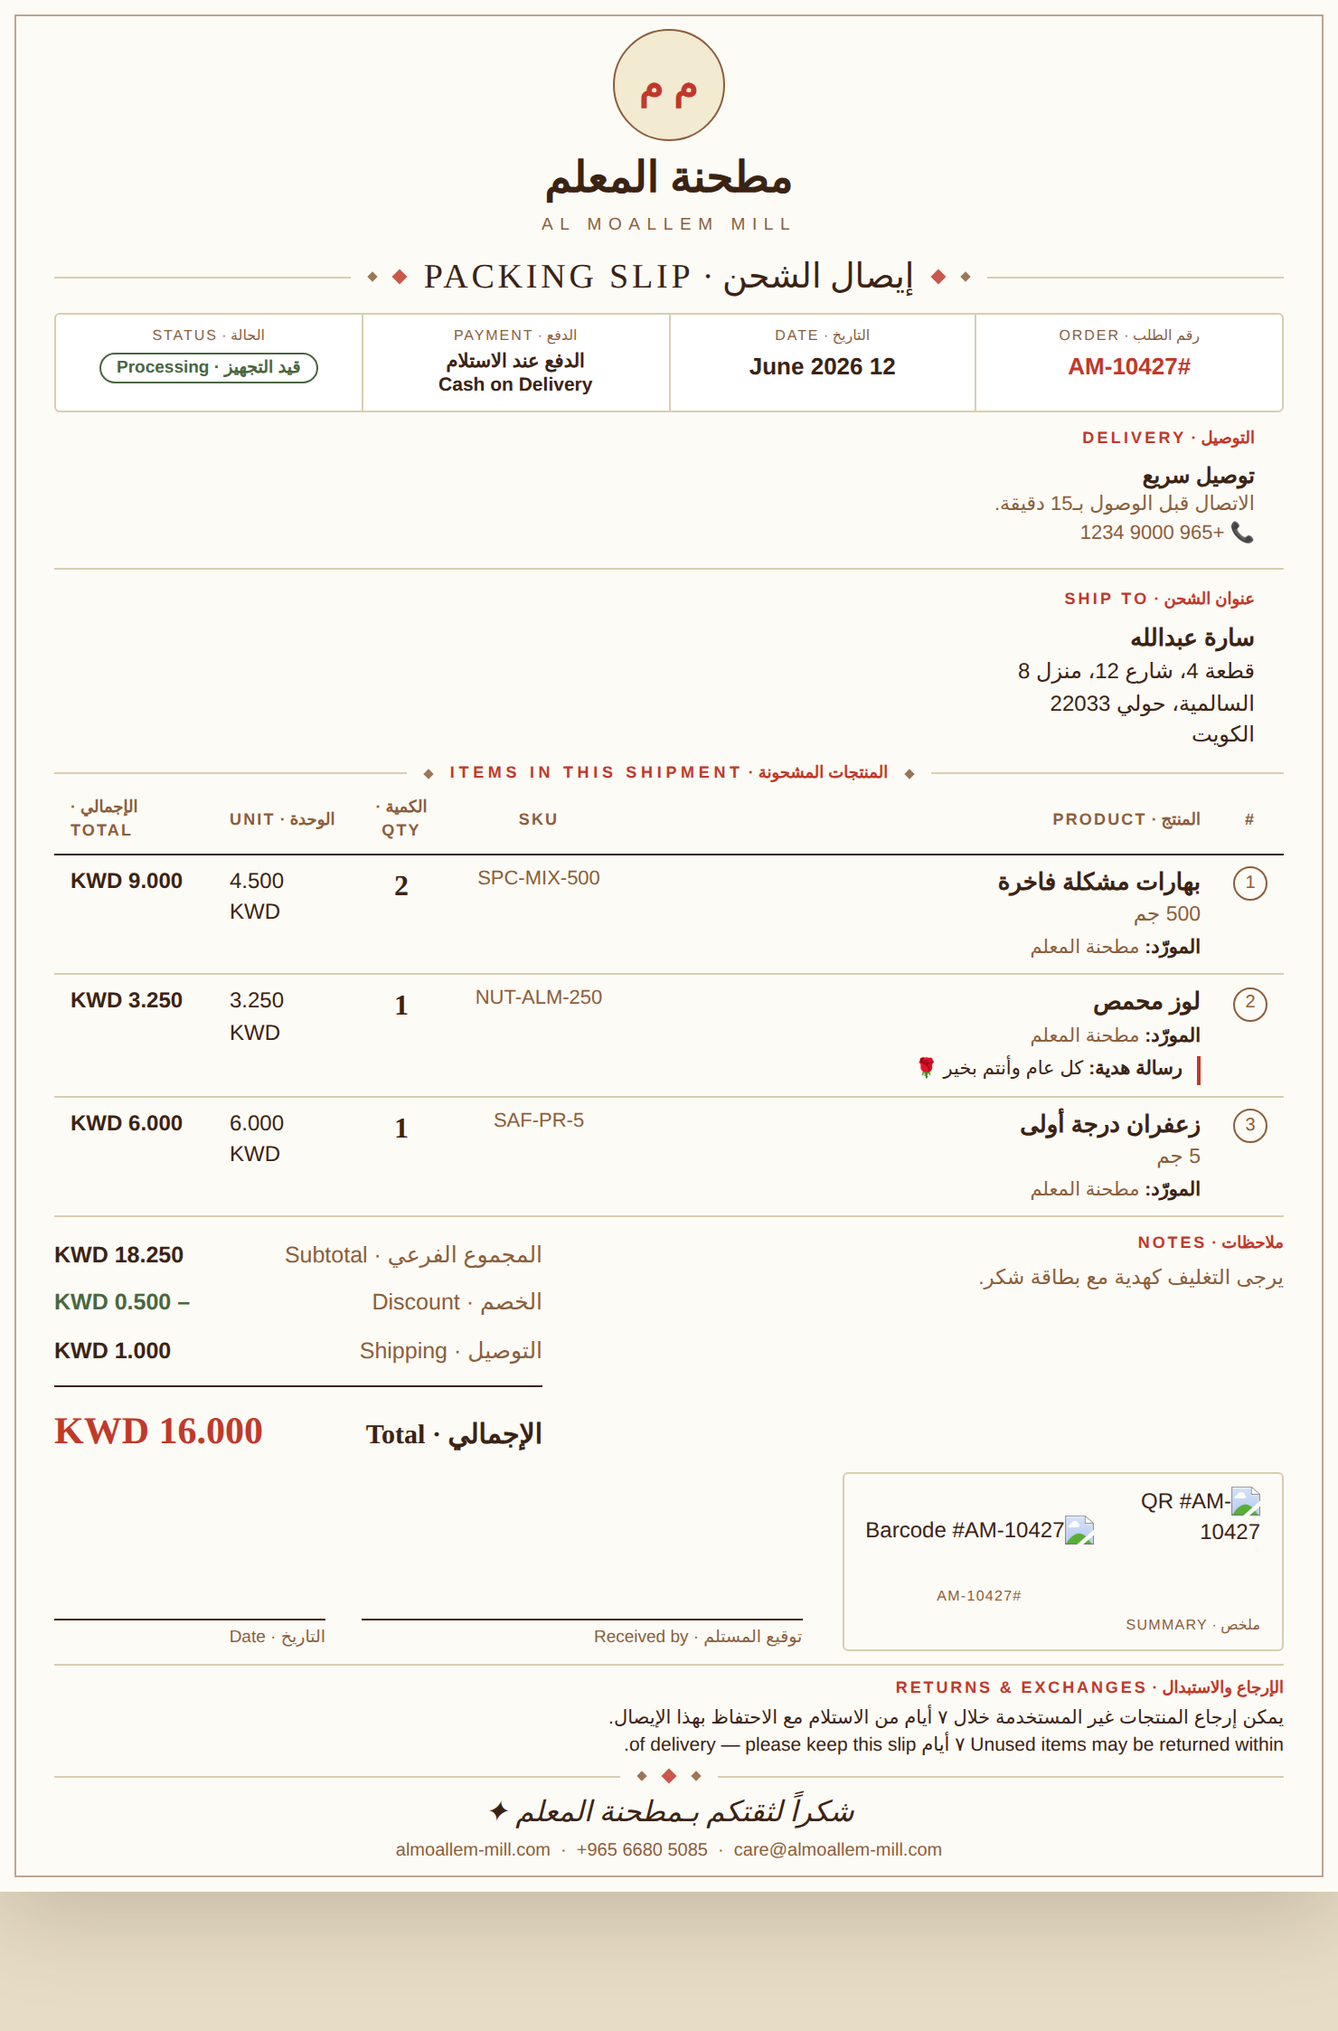
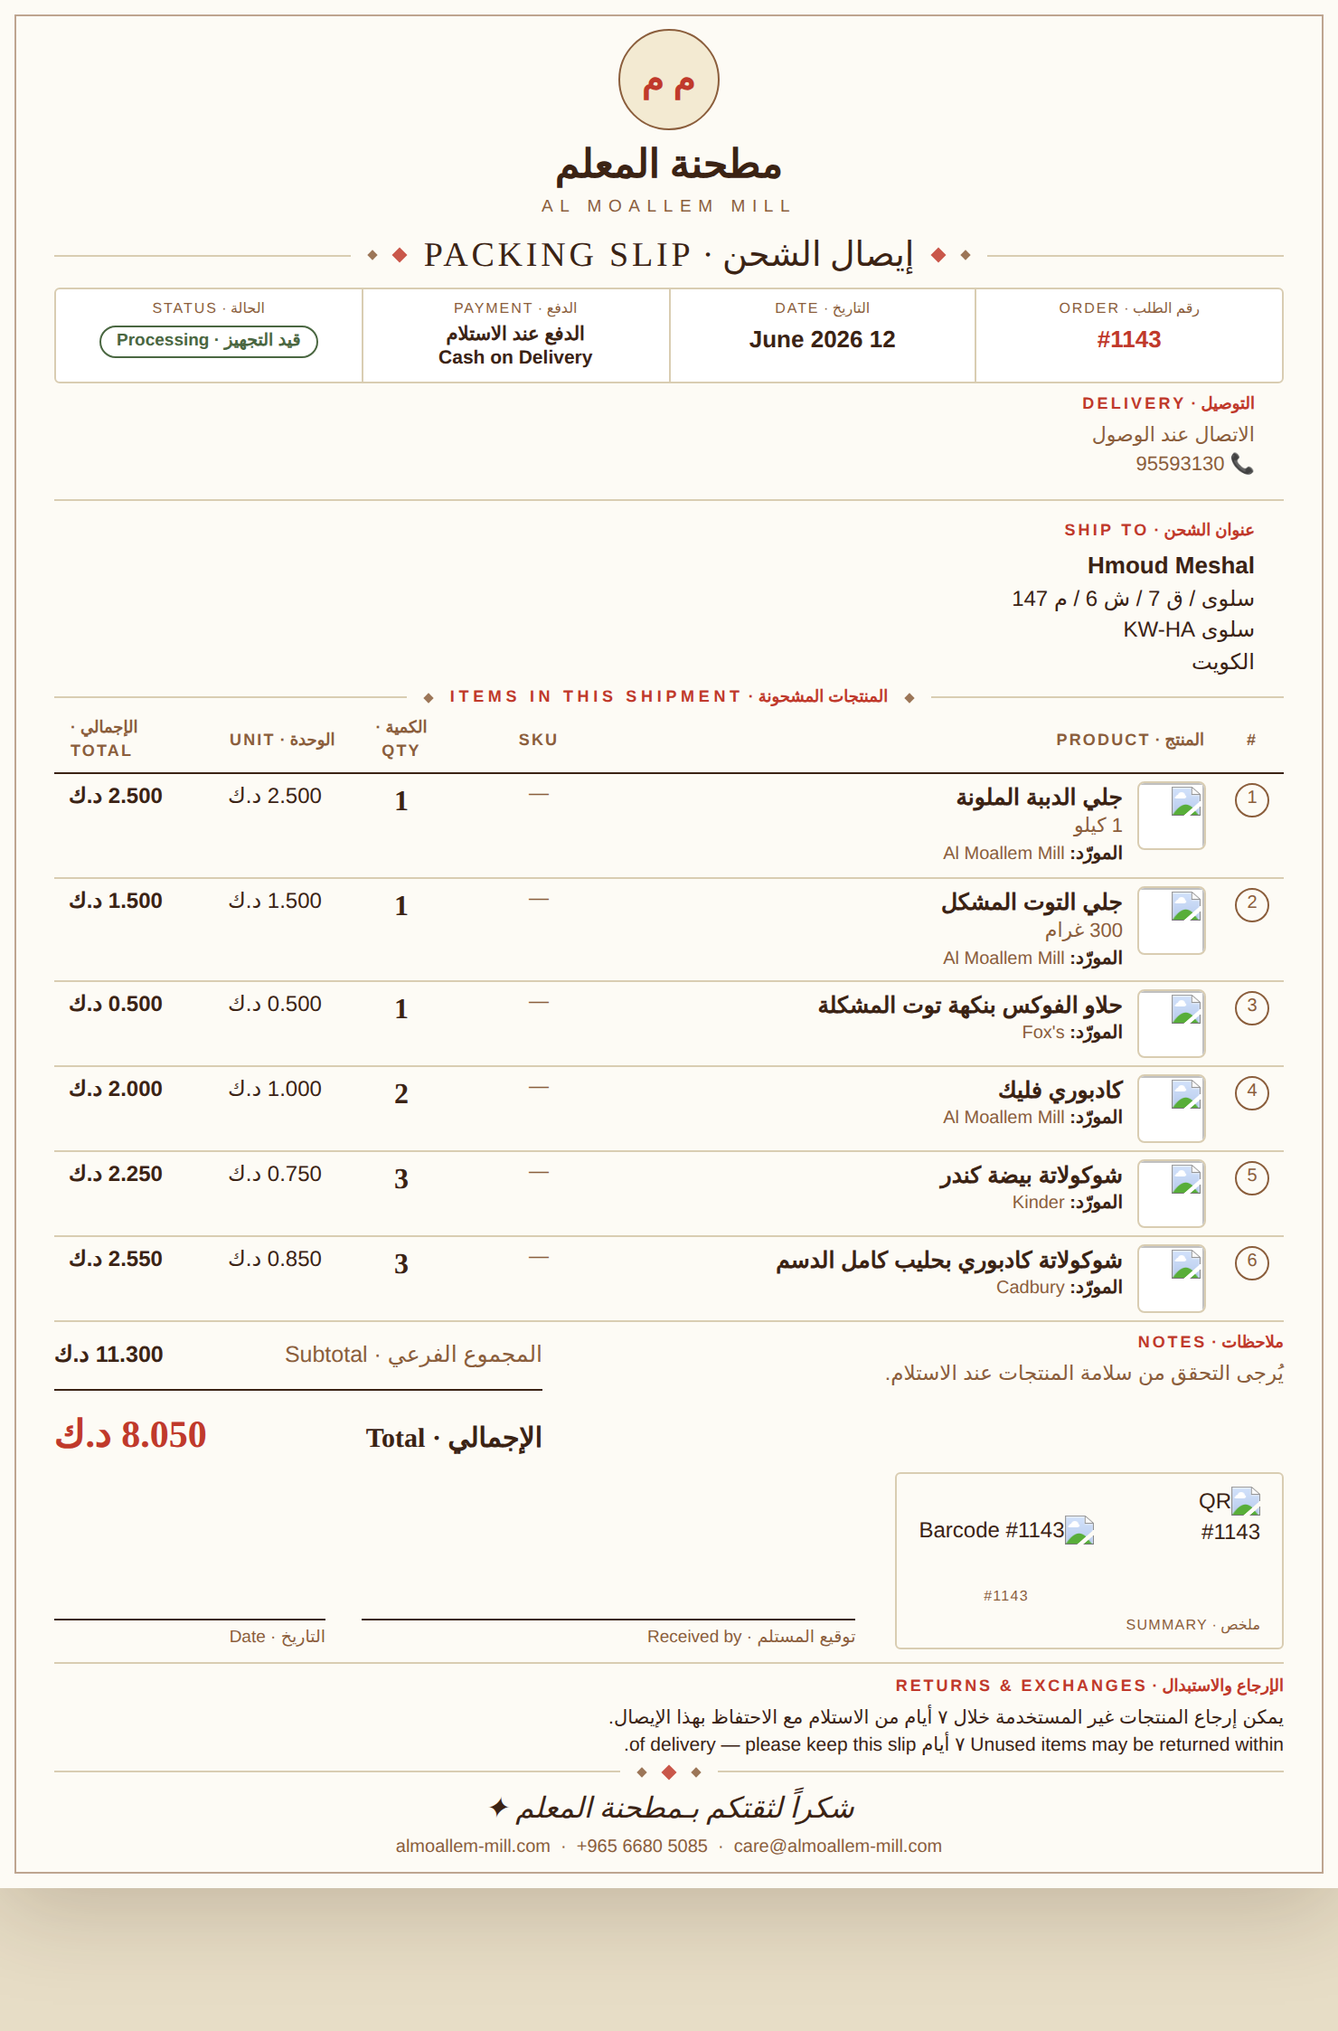
fix(editorial): variant prices, product images, paid-based payment
- Fix missing unit/line totals for VARIANT products: order.line_items
  returns 'Product - Variant' as the title while shipment lines use just the
  product title, so exact matching failed. Add layered matching (SKU →
  exact title+variant → product.title+variant → title-contains+variant →
  title-contains) so variant lines resolve to their order line and price.
- Add product image thumbnails (line_item.image, fallback to matched order
  line image) via a toggle (show_images).
- Payment now keys off paid status: financial_status == 'paid' prints
  'الدفع الإلكتروني · Online Payment', otherwise 'الدفع عند الاستلام ·
  Cash on Delivery'.
- Tighten rows so a 6-line order with images still fits one A4 page.
- Refresh preview render.

diff --git a/shopify-packing-slip/preview/preview-editorial-sample.html b/shopify-packing-slip/preview/preview-editorial-sample.html
@@ -31,13 +31,13 @@
     /* Crest */
     .crest { text-align:center; padding:0 0 2px; }
     .crest .logo-wrap { display:inline-block; position:relative; }
-    .crest .logo { width:62px; height:62px; object-fit:contain; border-radius:50%; border:1.5px solid var(--bronze); padding:3px; background:#fff; }
-    .crest .logo-fallback { width:62px; height:62px; border-radius:50%; border:1.5px solid var(--bronze); background:var(--cream); display:none; align-items:center; justify-content:center; font-family:var(--font-display); font-size:22px; font-weight:700; color:var(--red); }
-    .crest .name-ar { font-family:var(--font-display); font-size:24px; font-weight:700; margin-top:4px; }
+    .crest .logo { width:56px; height:56px; object-fit:contain; border-radius:50%; border:1.5px solid var(--bronze); padding:3px; background:#fff; }
+    .crest .logo-fallback { width:56px; height:56px; border-radius:50%; border:1.5px solid var(--bronze); background:var(--cream); display:none; align-items:center; justify-content:center; font-family:var(--font-display); font-size:20px; font-weight:700; color:var(--red); }
+    .crest .name-ar { font-family:var(--font-display); font-size:22px; font-weight:700; margin-top:3px; }
     .crest .name-en { font-size:9.5px; letter-spacing:.4em; text-transform:uppercase; color:var(--bronze); margin-top:1px; }
 
     /* Diamond rule */
-    .rule { display:flex; align-items:center; gap:10px; margin:6px 0; }
+    .rule { display:flex; align-items:center; gap:10px; margin:4px 0; }
     .rule::before, .rule::after { content:''; flex:1; height:1px; background:var(--line); }
     .rule .dot { width:6px; height:6px; background:var(--red); transform:rotate(45deg); opacity:.85; }
     .rule .dot.sm { width:4px; height:4px; background:var(--bronze); }
@@ -45,7 +45,7 @@
 
     /* Meta band */
     .meta-band { display:flex; border:1px solid var(--line); border-radius:3px; overflow:hidden; background:#fff; }
-    .meta-cell { flex:1; padding:6px 9px; text-align:center; }
+    .meta-cell { flex:1; padding:5px 8px; text-align:center; }
     .meta-cell + .meta-cell { border-right:1px solid var(--line); }
     .meta-cell .lbl { font-size:8px; letter-spacing:.12em; text-transform:uppercase; color:var(--bronze); }
     .meta-cell .val { font-size:13px; font-weight:700; margin-top:2px; }
@@ -54,10 +54,10 @@
     .status-tag { display:inline-block; margin-top:3px; font-size:9.5px; font-weight:700; color:var(--green); border:1px solid var(--green); border-radius:999px; padding:1px 9px; }
 
     /* Addresses (Delivery + Ship To) */
-    .addr-grid { display:grid; grid-template-columns:1fr 1fr; margin-top:8px; }
+    .addr-grid { display:grid; grid-template-columns:1fr 1fr; margin-top:5px; }
     .addr { padding:0 16px; }
     .addr + .addr { border-right:1px solid var(--line); }
-    .addr h3 { font-size:9px; letter-spacing:.18em; text-transform:uppercase; color:var(--red); margin-bottom:6px; font-weight:700; }
+    .addr h3 { font-size:9px; letter-spacing:.18em; text-transform:uppercase; color:var(--red); margin-bottom:4px; font-weight:700; }
     .addr .nm { font-weight:700; font-size:13px; }
     .addr .ln { font-size:12px; }
     .addr .sub { font-size:11px; color:var(--bronze); }
@@ -67,22 +67,26 @@
     table.items thead th { font-size:9px; letter-spacing:.12em; text-transform:uppercase; color:var(--bronze); font-weight:700; text-align:right; padding:0 9px 5px; border-bottom:1.5px solid var(--ink); }
     table.items thead th.c { text-align:center; }
     table.items thead th.l { text-align:left; }
-    table.items tbody td { padding:6px 9px; border-bottom:1px solid var(--line); vertical-align:top; }
+    table.items tbody td { padding:4px 8px; border-bottom:1px solid var(--line); vertical-align:top; }
     table.items tbody td.c { text-align:center; }
     table.items tbody td.l { text-align:left; }
     .idx { display:inline-flex; align-items:center; justify-content:center; width:19px; height:19px; border:1px solid var(--bronze); border-radius:50%; font-size:10px; color:var(--bronze); }
-    .it-name { font-weight:600; font-size:13px; }
-    .it-sub { font-size:11.5px; color:var(--bronze); margin-top:1px; }       /* variant subtitle */
-    .it-meta { font-size:10.5px; color:var(--bronze); margin-top:2px; }
+    .prod { display:flex; gap:8px; align-items:flex-start; }
+    .prod-info { flex:1; }
+    .thumb { width:38px; height:38px; object-fit:cover; border:1px solid var(--line); border-radius:4px; background:#fff; flex:none; }
+    .thumb-ph { width:38px; height:38px; border:1px dashed var(--line); border-radius:4px; flex:none; display:flex; align-items:center; justify-content:center; color:var(--bronze); font-size:11px; }
+    .it-name { font-weight:600; font-size:12.5px; }
+    .it-sub { font-size:11px; color:var(--bronze); margin-top:0; }       /* variant subtitle */
+    .it-meta { font-size:10px; color:var(--bronze); margin-top:0; }
     .it-meta b { color:var(--ink); }
     .it-prop { font-size:10.5px; margin-top:3px; padding-right:8px; border-right:2px solid var(--red); }
     .it-qty { font-family:var(--font-display); font-size:16px; font-weight:700; }
 
     /* Summary */
-    .sum-wrap { display:flex; justify-content:space-between; gap:24px; margin-top:8px; flex-wrap:wrap; }
+    .sum-wrap { display:flex; justify-content:space-between; gap:24px; margin-top:5px; flex-wrap:wrap; }
     .note { flex:1; min-width:230px; }
-    .note h4 { font-size:9px; letter-spacing:.16em; text-transform:uppercase; color:var(--red); margin-bottom:4px; }
-    .note p { font-size:11.5px; color:var(--bronze); line-height:1.65; }
+    .note h4 { font-size:9px; letter-spacing:.16em; text-transform:uppercase; color:var(--red); margin-bottom:3px; }
+    .note p { font-size:11.5px; color:var(--bronze); line-height:1.5; }
     .sum { width:270px; }
     .sum .r { display:flex; justify-content:space-between; padding:4px 0; font-size:12.5px; }
     .sum .r .l { color:var(--bronze); }
@@ -94,7 +98,7 @@
     .partial { margin-top:10px; font-size:11px; color:var(--red); border:1px dashed var(--red); border-radius:3px; padding:6px 10px; }
 
     /* Combined end row: scan codes + signature on one line */
-    .endrow { display:flex; gap:22px; align-items:flex-end; margin-top:8px; }
+    .endrow { display:flex; gap:22px; align-items:flex-end; margin-top:5px; }
     .codes { display:flex; gap:18px; align-items:center; border:1px solid var(--line); border-radius:3px; padding:7px 12px; }
     .codes .qr img { width:68px; height:68px; display:block; }
     .codes .bc img { height:36px; max-width:170px; display:block; }
@@ -154,7 +158,7 @@
   <div class="meta-band">
     <div class="meta-cell">
       <div class="lbl">رقم الطلب · Order</div>
-      <div class="val red">#AM-10427</div>
+      <div class="val red">#1143</div>
     </div>
     <div class="meta-cell">
       <div class="lbl">التاريخ · Date</div>
@@ -179,19 +183,19 @@
   <div class="addr-grid">
     <div class="addr">
       <h3>التوصيل · Delivery</h3>
-      <div class="ln"><b>توصيل سريع</b></div>
-      <div class="sub">الاتصال قبل الوصول بـ15 دقيقة.</div>
-      <div class="sub">📞 +965 9000 1234</div>
+      
+      <div class="sub">الاتصال عند الوصول</div>
+      <div class="sub">📞 95593130</div>
       
     </div>
     <div class="addr">
       <h3>عنوان الشحن · Ship To</h3>
       
-        <div class="nm">سارة عبدالله</div>
+        <div class="nm">Hmoud Meshal</div>
         
-        <div class="ln">قطعة 4، شارع 12، منزل 8</div>
+        <div class="ln">سلوى / ق 7 / ش 6 / م 147</div>
         
-        <div class="ln">السالمية، حولي 22033</div>
+        <div class="ln">سلوى KW-HA</div>
         <div class="ln">الكويت</div>
       
     </div>
@@ -218,47 +222,133 @@
     <tbody><tr>
           <td class="c"><span class="idx">1</span></td>
           <td>
-            <div class="it-name">بهارات مشكلة فاخرة</div><div class="it-sub">500 جم</div>
-            <div class="it-meta"><b>المورّد:</b> مطحنة المعلم</div>
-            
+            <div class="prod">
+              <img class="thumb" src="https://api.qrserver.com/v1/create-qr-code/?size=80x80&data=img" alt="">
+                
+              
+              <div class="prod-info">
+                <div class="it-name">جلي الدببة الملونة</div>
+                <div class="it-sub">1 كيلو</div>
+                <div class="it-meta"><b>المورّد:</b> Al Moallem Mill</div>
+                
+              </div>
+            </div>
           </td>
-          <td class="c muted" style="font-size:11px;">SPC-MIX-500</td>
-          <td class="c"><span class="it-qty">2</span></td>
+          <td class="c muted" style="font-size:11px;">—</td>
+          <td class="c"><span class="it-qty">1</span></td>
           
-            <td class="l">4.500 KWD</td>
-            <td class="l" style="font-weight:700;">9.000 KWD</td>
+            <td class="l">2.500 د.ك</td>
+            <td class="l" style="font-weight:700;">2.500 د.ك</td>
           
         </tr>
       <tr>
           <td class="c"><span class="idx">2</span></td>
           <td>
-            <div class="it-name">لوز محمص</div>
-            <div class="it-meta"><b>المورّد:</b> مطحنة المعلم</div>
-            
+            <div class="prod">
+              <img class="thumb" src="https://api.qrserver.com/v1/create-qr-code/?size=80x80&data=img" alt="">
+                
               
-                <div class="it-prop"><b>رسالة هدية:</b> كل عام وأنتم بخير 🌹</div>
-              
-            
+              <div class="prod-info">
+                <div class="it-name">جلي التوت المشكل</div>
+                <div class="it-sub">300 غرام</div>
+                <div class="it-meta"><b>المورّد:</b> Al Moallem Mill</div>
+                
+              </div>
+            </div>
           </td>
-          <td class="c muted" style="font-size:11px;">NUT-ALM-250</td>
+          <td class="c muted" style="font-size:11px;">—</td>
           <td class="c"><span class="it-qty">1</span></td>
           
-            <td class="l">3.250 KWD</td>
-            <td class="l" style="font-weight:700;">3.250 KWD</td>
+            <td class="l">1.500 د.ك</td>
+            <td class="l" style="font-weight:700;">1.500 د.ك</td>
           
         </tr>
       <tr>
           <td class="c"><span class="idx">3</span></td>
           <td>
-            <div class="it-name">زعفران درجة أولى</div><div class="it-sub">5 جم</div>
-            <div class="it-meta"><b>المورّد:</b> مطحنة المعلم</div>
-            
+            <div class="prod">
+              <img class="thumb" src="https://api.qrserver.com/v1/create-qr-code/?size=80x80&data=img" alt="">
+                
+              
+              <div class="prod-info">
+                <div class="it-name">حلاو الفوكس بنكهة توت المشكلة</div>
+                
+                <div class="it-meta"><b>المورّد:</b> Fox's</div>
+                
+              </div>
+            </div>
           </td>
-          <td class="c muted" style="font-size:11px;">SAF-PR-5</td>
+          <td class="c muted" style="font-size:11px;">—</td>
           <td class="c"><span class="it-qty">1</span></td>
           
-            <td class="l">6.000 KWD</td>
-            <td class="l" style="font-weight:700;">6.000 KWD</td>
+            <td class="l">0.500 د.ك</td>
+            <td class="l" style="font-weight:700;">0.500 د.ك</td>
+          
+        </tr>
+      <tr>
+          <td class="c"><span class="idx">4</span></td>
+          <td>
+            <div class="prod">
+              <img class="thumb" src="https://api.qrserver.com/v1/create-qr-code/?size=80x80&data=img" alt="">
+                
+              
+              <div class="prod-info">
+                <div class="it-name">كادبوري فليك</div>
+                
+                <div class="it-meta"><b>المورّد:</b> Al Moallem Mill</div>
+                
+              </div>
+            </div>
+          </td>
+          <td class="c muted" style="font-size:11px;">—</td>
+          <td class="c"><span class="it-qty">2</span></td>
+          
+            <td class="l">1.000 د.ك</td>
+            <td class="l" style="font-weight:700;">2.000 د.ك</td>
+          
+        </tr>
+      <tr>
+          <td class="c"><span class="idx">5</span></td>
+          <td>
+            <div class="prod">
+              <img class="thumb" src="https://api.qrserver.com/v1/create-qr-code/?size=80x80&data=img" alt="">
+                
+              
+              <div class="prod-info">
+                <div class="it-name">شوكولاتة بيضة كندر</div>
+                
+                <div class="it-meta"><b>المورّد:</b> Kinder</div>
+                
+              </div>
+            </div>
+          </td>
+          <td class="c muted" style="font-size:11px;">—</td>
+          <td class="c"><span class="it-qty">3</span></td>
+          
+            <td class="l">0.750 د.ك</td>
+            <td class="l" style="font-weight:700;">2.250 د.ك</td>
+          
+        </tr>
+      <tr>
+          <td class="c"><span class="idx">6</span></td>
+          <td>
+            <div class="prod">
+              <img class="thumb" src="https://api.qrserver.com/v1/create-qr-code/?size=80x80&data=img" alt="">
+                
+              
+              <div class="prod-info">
+                <div class="it-name">شوكولاتة كادبوري بحليب كامل الدسم</div>
+                
+                <div class="it-meta"><b>المورّد:</b> Cadbury</div>
+                
+              </div>
+            </div>
+          </td>
+          <td class="c muted" style="font-size:11px;">—</td>
+          <td class="c"><span class="it-qty">3</span></td>
+          
+            <td class="l">0.850 د.ك</td>
+            <td class="l" style="font-weight:700;">2.550 د.ك</td>
           
         </tr>
       
@@ -271,14 +361,14 @@
   <div class="sum-wrap">
     <div class="note">
       <h4>ملاحظات · Notes</h4>
-      <p>يرجى التغليف كهدية مع بطاقة شكر.</p>
+      <p>يُرجى التحقق من سلامة المنتجات عند الاستلام.</p>
     </div>
     
     <div class="sum">
-      <div class="r"><span class="l">المجموع الفرعي · Subtotal</span><span class="v">18.250 KWD</span></div>
-      <div class="r disc"><span class="l">الخصم · Discount</span><span class="v">– 0.500 KWD</span></div>
-      <div class="r"><span class="l">التوصيل · Shipping</span><span class="v">1.000 KWD</span></div>
-      <div class="grand"><span class="l">الإجمالي · Total</span><span class="v">16.000 KWD</span></div>
+      <div class="r"><span class="l">المجموع الفرعي · Subtotal</span><span class="v">11.300 د.ك</span></div>
+      
+      
+      <div class="grand"><span class="l">الإجمالي · Total</span><span class="v">8.050 د.ك</span></div>
     </div>
     
   </div>
@@ -289,10 +379,10 @@
     <div class="codes">
       
         
-        <div class="qr"><img src="https://api.qrserver.com/v1/create-qr-code/?size=130x130&margin=0&data=%23AM-10427+%7C+%D8%B3%D8%A7%D8%B1%D8%A9+%D8%B9%D8%A8%D8%AF%D8%A7%D9%84%D9%84%D9%87+%7C+2026-06-12+%7C+4+pcs" alt="QR #AM-10427"><div class="cap">ملخص · Summary</div></div>
+        <div class="qr"><img src="https://api.qrserver.com/v1/create-qr-code/?size=130x130&margin=0&data=%231143+%7C+Hmoud+Meshal+%7C+2026-06-12+%7C+11+pcs" alt="QR #1143"><div class="cap">ملخص · Summary</div></div>
       
       
-        <div class="bc"><img src="https://barcode.tec-it.com/barcode.ashx?code=Code128&dpi=96&imagetype=Png&data=%23AM-10427" alt="Barcode #AM-10427"><div class="cap">#AM-10427</div></div>
+        <div class="bc"><img src="https://barcode.tec-it.com/barcode.ashx?code=Code128&dpi=96&imagetype=Png&data=%231143" alt="Barcode #1143"><div class="cap">#1143</div></div>
       
     </div>
     
